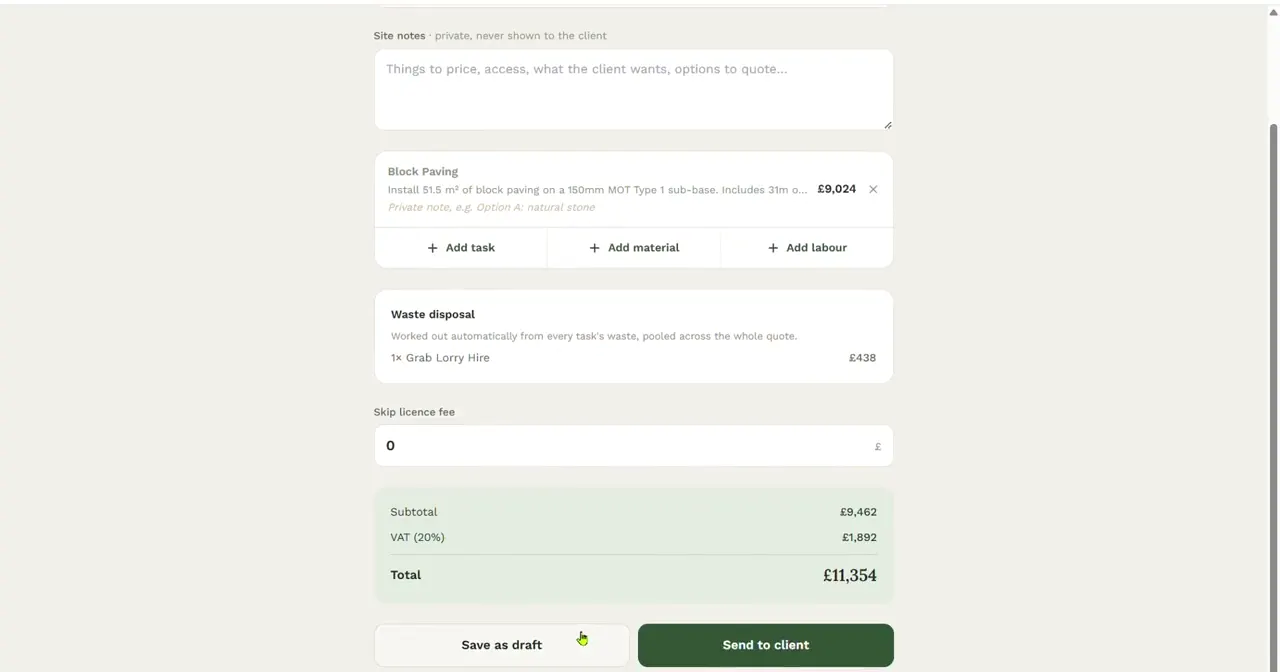
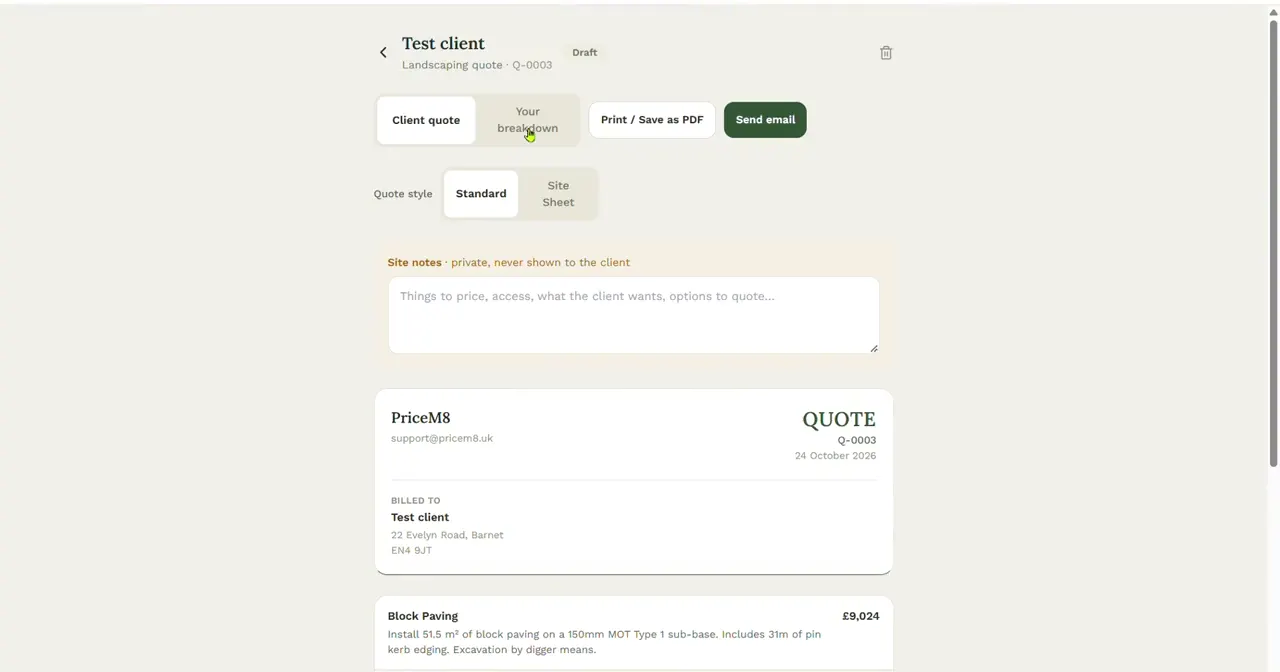
Website: walkthroughs index page, menu and footer links
Adds /walkthroughs (three cards with thumbnails), a Walkthroughs link in the header
menu and footer, an 'All walkthroughs' link on each walkthrough, and a more
informative poster for the quote-to-invoice recording.

diff --git a/src/pages/walkthroughs/Walkthroughs.tsx b/src/pages/walkthroughs/Walkthroughs.tsx
@@ -1,0 +1,95 @@
+import { Link } from 'react-router-dom'
+import SiteSheetHeader from '../../components/site-sheet/Header'
+import SiteSheetFooter from '../../components/site-sheet/Footer'
+import { useSEO } from '../../hooks/useSEO'
+import '../../styles/site-sheet.css'
+
+const SEO_TITLE = 'Watch PriceM8 work: real screen recordings – PriceM8 walkthroughs'
+const SEO_DESCRIPTION =
+  'Short screen recordings of the real app: measuring a garden on the satellite map, turning a quote into an invoice, and asking for a bank payment on a part-paid invoice.'
+
+const WALKTHROUGHS = [
+  {
+    to: '/walkthroughs/measure-a-garden-on-the-map',
+    n: '1',
+    kicker: 'Measuring',
+    title: 'Measure it from the map, then price it',
+    text: 'Click round a drive or lawn on the satellite view and the area goes straight into the quote. Plus the sketch pad for when the map can\'t help.',
+    poster: '/walkthroughs/measure-on-map-poster.webp',
+    length: '2 recordings · about 1 min each',
+  },
+  {
+    to: '/walkthroughs/quote-to-invoice',
+    n: '2',
+    kicker: 'Quotes and invoices',
+    title: 'From the numbers to a quote you can send',
+    text: 'The breakdown behind a price, the version your customer reads, and the invoice made from it in one click.',
+    poster: '/walkthroughs/quote-to-invoice-poster.webp',
+    length: '1 recording · about 1 min',
+  },
+  {
+    to: '/walkthroughs/get-paid-by-bank-payment',
+    n: '3',
+    kicker: 'Getting paid',
+    title: 'From a deposit to the balance, paid from their banking app',
+    text: 'A part-paid invoice, one button to ask for the balance by bank payment, and the page your customer pays on.',
+    poster: '/walkthroughs/get-paid-bank-payment-poster.webp',
+    length: '1 recording · under 20 seconds',
+  },
+]
+
+export default function Walkthroughs() {
+  useSEO({ title: SEO_TITLE, description: SEO_DESCRIPTION, path: '/walkthroughs', image: 'https://pricem8.uk/walkthroughs/measure-on-map-poster.webp', index: true })
+
+  return (
+    <div className="ps-page">
+      <SiteSheetHeader />
+
+      <main id="top">
+        <section>
+          <div className="wrap">
+            <p className="mono hero-eyebrow">Walkthroughs</p>
+            <h1 className="disp" style={{ fontSize: 'var(--fs-h2)', maxWidth: '16em' }}>See it done, in the real app.</h1>
+            <p className="lede" style={{ marginTop: 22 }}>
+              Short screen recordings with a test client, no mock-ups. Each one has the same moments as
+              numbered stills underneath, so you can skim it without pressing play.
+            </p>
+
+            <div className="lines" style={{ marginTop: 44 }}>
+              {WALKTHROUGHS.map((w) => (
+                <div className="line-block" key={w.to}>
+                  <Link to={w.to} className="wt-card-img" aria-label={w.title}>
+                    <img src={w.poster} alt="" loading="lazy" width={1280} height={672} />
+                  </Link>
+                  <div className="line-title">
+                    <h3 className="sub">{w.title}</h3>
+                    <span className="mono n">{w.kicker}</span>
+                  </div>
+                  <p>{w.text}</p>
+                  <p className="mono" style={{ color: 'var(--ink-2)' }}>{w.length}</p>
+                  <p><Link to={w.to}>Watch walkthrough {w.n} →</Link></p>
+                </div>
+              ))}
+            </div>
+          </div>
+        </section>
+
+        <section className="close">
+          <div className="wrap">
+            <div className="sheet-rule"><span className="mono lbl">Next</span><span className="ticks"></span></div>
+            <div style={{ marginTop: 38 }}>
+              <h2 className="disp">Try it on one of your own jobs.</h2>
+              <p className="lede">Take a job you've already done and put it through. That's a fair test of any quoting tool.</p>
+              <div className="row">
+                <a className="btn chalk" href="https://app.pricem8.uk/signup">Start free trial <span className="arw">→</span></a>
+                <span className="mono fine">Free to try · cancel whenever · no contract</span>
+              </div>
+            </div>
+          </div>
+        </section>
+      </main>
+
+      <SiteSheetFooter />
+    </div>
+  )
+}

diff --git a/src/App.tsx b/src/App.tsx
@@ -13,6 +13,7 @@ import ConstructionEstimatingSoftware from './pages/ConstructionEstimatingSoftwa
 import ConstructionQuotingSoftware from './pages/ConstructionQuotingSoftware'
 import GetStartedPage from './pages/GetStartedPage'
 import GetPaidByBankGuide from './pages/GetPaidByBankGuide'
+import Walkthroughs from './pages/walkthroughs/Walkthroughs'
 import MeasureOnTheMap from './pages/walkthroughs/MeasureOnTheMap'
 import QuoteToInvoice from './pages/walkthroughs/QuoteToInvoice'
 import GetPaidByBankPayment from './pages/walkthroughs/GetPaidByBankPayment'
@@ -36,6 +37,7 @@ function App() {
           <Route path="/blog/how-much-to-charge" element={<HowToCharge />} />
           <Route path="/blog/:slug" element={<BlogPost />} />
           <Route path="/help/get-paid-by-bank-payment" element={<GetPaidByBankGuide />} />
+          <Route path="/walkthroughs" element={<Walkthroughs />} />
           <Route path="/walkthroughs/measure-a-garden-on-the-map" element={<MeasureOnTheMap />} />
           <Route path="/walkthroughs/quote-to-invoice" element={<QuoteToInvoice />} />
           <Route path="/walkthroughs/get-paid-by-bank-payment" element={<GetPaidByBankPayment />} />

diff --git a/src/styles/site-sheet.css b/src/styles/site-sheet.css
@@ -449,6 +449,9 @@
 .ps-page .wt-step h3{margin-bottom:12px}
 .ps-page .wt-step p{max-width:30em}
 .ps-page .wt-step img{width:100%;height:auto;border:1px solid var(--rule);background:var(--plate)}
+.ps-page .wt-card-img{display:block;border:1px solid var(--rule);background:var(--plate);padding:6px}
+.ps-page .wt-card-img img{width:100%;height:auto}
+.ps-page .wt-card-img:hover{border-color:var(--cedar-soft)}
 .ps-page .wt-note{margin-top:22px;color:var(--ink-2);max-width:60em;text-transform:none;letter-spacing:.02em}
 .ps-page .wt-next{list-style:none;margin:34px 0 0;padding:0;border-top:1px solid var(--band-rule)}
 .ps-page .wt-next li{border-bottom:1px solid var(--band-rule)}

diff --git a/scripts/generate-sitemap.js b/scripts/generate-sitemap.js
@@ -27,6 +27,7 @@ const STATIC_ROUTES = [
     { path: '/roast-my-quote', changefreq: 'monthly', priority: '0.6' },
     { path: '/contact', changefreq: 'monthly', priority: '0.5' },
     { path: '/help/get-paid-by-bank-payment', changefreq: 'monthly', priority: '0.4' },
+    { path: '/walkthroughs', changefreq: 'monthly', priority: '0.7' },
     { path: '/walkthroughs/measure-a-garden-on-the-map', changefreq: 'monthly', priority: '0.6' },
     { path: '/walkthroughs/quote-to-invoice', changefreq: 'monthly', priority: '0.6' },
     { path: '/walkthroughs/get-paid-by-bank-payment', changefreq: 'monthly', priority: '0.6' },

diff --git a/src/components/site-sheet/Header.tsx b/src/components/site-sheet/Header.tsx
@@ -14,6 +14,7 @@ export default function SiteSheetHeader() {
       <a href="/#landscaping" onClick={() => setOpen(false)}>Landscaping</a>
       <a href="/#garden-rooms" onClick={() => setOpen(false)}>Garden rooms</a>
       <a href="/#quote" onClick={() => setOpen(false)}>The quote</a>
+      <Link to="/walkthroughs" onClick={() => setOpen(false)}>Walkthroughs</Link>
       <a href="/#story" onClick={() => setOpen(false)}>The story</a>
       <Link to="/pricing" onClick={() => setOpen(false)}>Pricing</Link>
       <Link to="/blog" onClick={() => setOpen(false)}>The Site Office</Link>

diff --git a/src/pages/walkthroughs/Walkthrough.tsx b/src/pages/walkthroughs/Walkthrough.tsx
@@ -83,7 +83,7 @@ export default function Walkthrough(props: WalkthroughProps) {
       <main id="top">
         <section>
           <div className="wrap">
-            <p className="mono hero-eyebrow">{eyebrow}</p>
+            <p className="mono hero-eyebrow"><Link to="/walkthroughs" style={{ textDecoration: 'none' }}>All walkthroughs</Link> · {eyebrow}</p>
             <h1 className="disp" style={{ fontSize: 'var(--fs-h2)', maxWidth: '16em' }}>{heading}</h1>
             <p className="lede" style={{ marginTop: 22 }}>{lede}</p>
           </div>

diff --git a/src/components/site-sheet/Footer.tsx b/src/components/site-sheet/Footer.tsx
@@ -10,6 +10,7 @@ export default function SiteSheetFooter() {
           <a className="mono" href="/#landscaping">Landscaping</a>
           <a className="mono" href="/#garden-rooms">Garden rooms</a>
           <a className="mono" href="/#quote">The quote</a>
+          <Link className="mono" to="/walkthroughs">Walkthroughs</Link>
           <a className="mono" href="/#story">The story</a>
           <Link className="mono" to="/pricing">Pricing</Link>
           <Link className="mono" to="/blog">The Site Office</Link>
